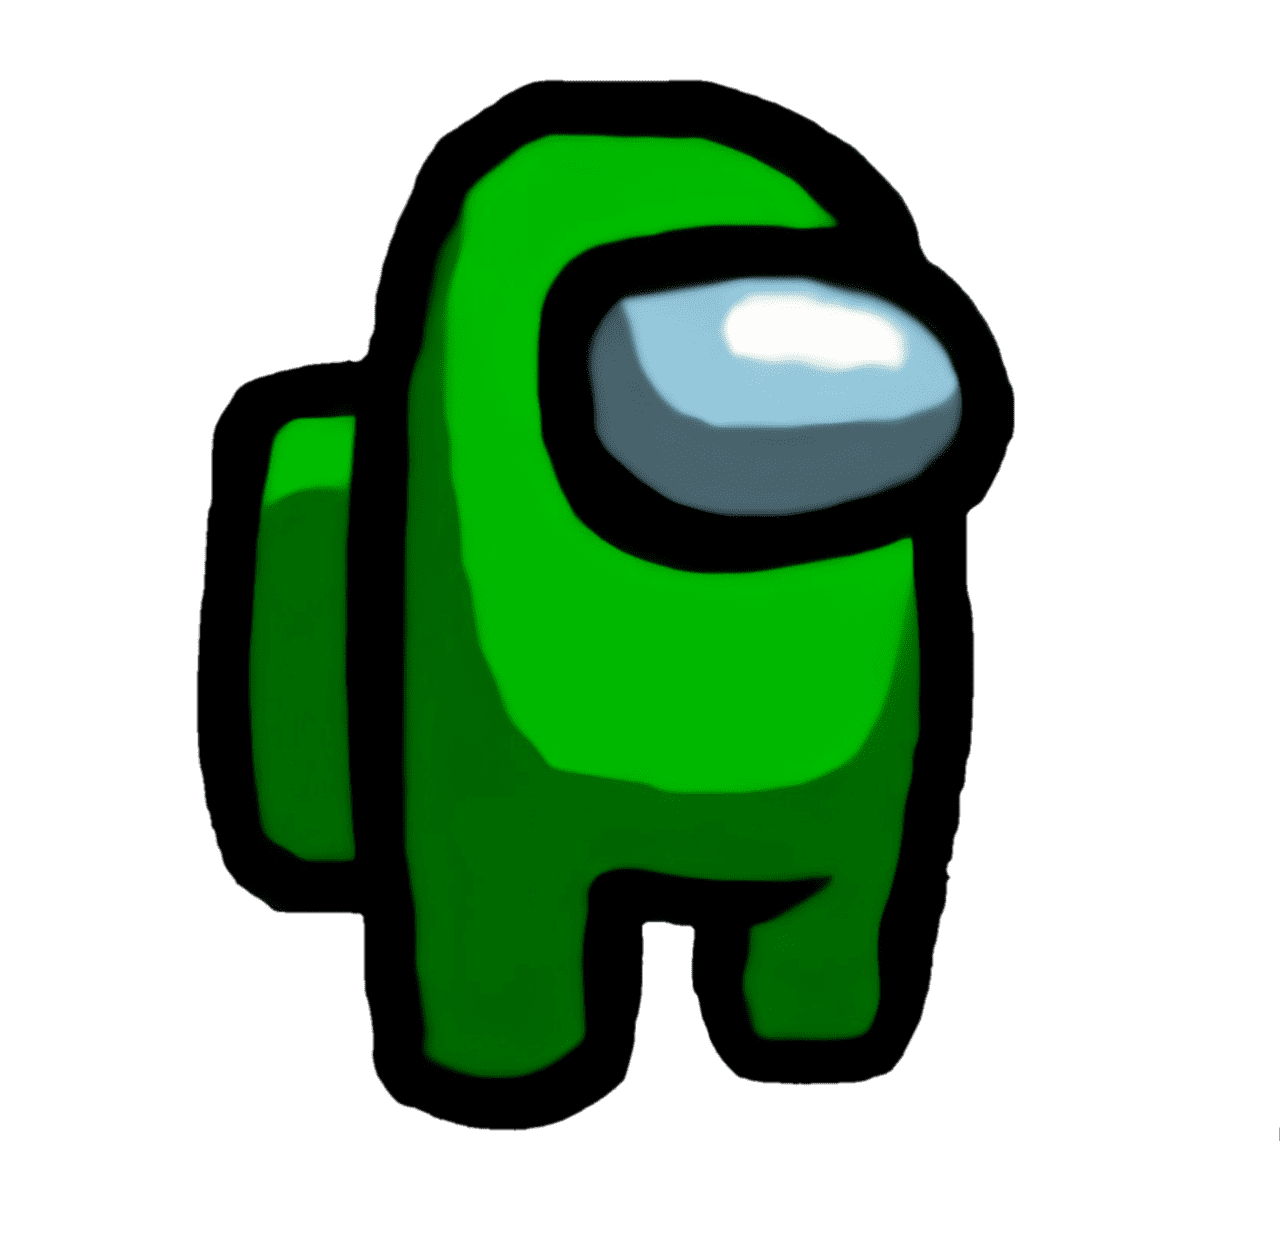
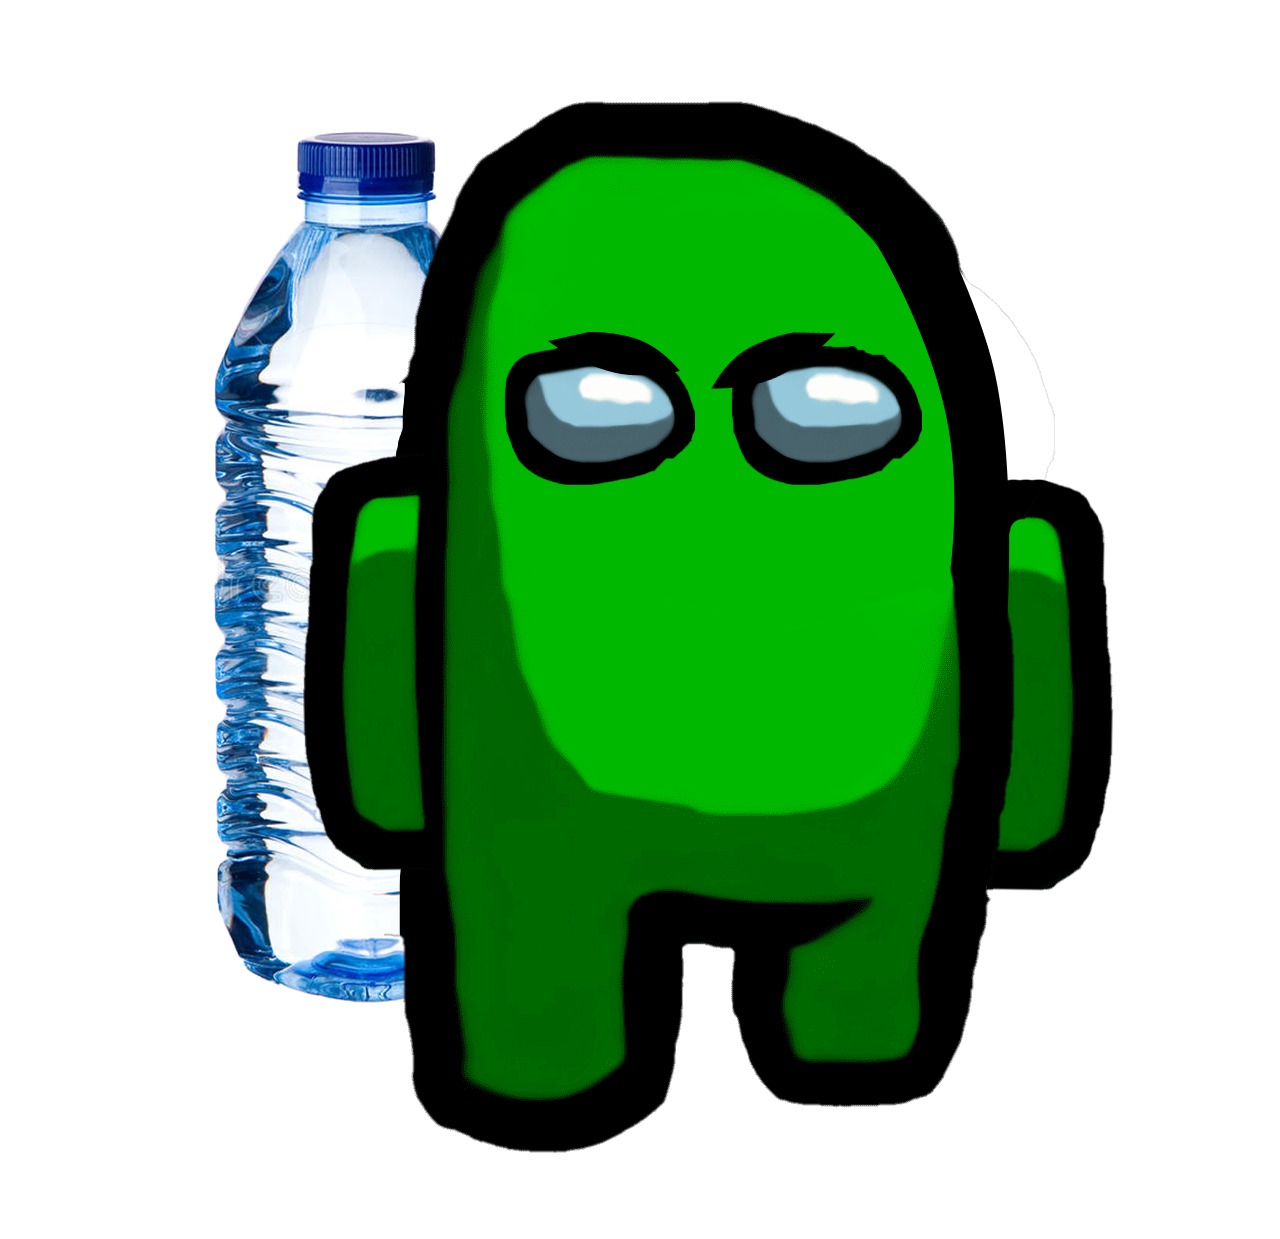
Version 1.0
Have been added new design. Fix couple bugs

diff --git a/amonggame/css/main.css b/amonggame/css/main.css
@@ -5,6 +5,18 @@ body,html{
     padding: 0;
     margin: 0;
     font-family: 'Montserrat', sans-serif;
+    background: url('../img/mainbg.png');
+
+}
+.box{
+  box-shadow: 1px 1px 50px rgba(0,0,0,.3);
+  border-radius: 10px;
+}
+.indicator{
+  background-color: rgb(226, 226, 226);
+  border-radius: 10px;
+  padding: 10px 20px;
+  box-shadow: 1px 1px 50px rgba(0,0,0,.3);
 }
 .field{
     width: 100%;
@@ -12,8 +24,8 @@ body,html{
     /* background: url(https://wonder-day.com/wp-content/uploads/2020/10/wonder-day-among-us-wallpapers-41-1024x576.jpg) no-repeat center center; */
     background-size: cover;
     position: relative;
-    background-color: rgb(195, 219, 255);
-}
+    /* background-size: cover; */
+  }
 .field > *{
     /* z-index: 10; */
 }
@@ -23,7 +35,7 @@ body,html{
     left: 250px;
     width: 100px;
     height: 100px;
-    border: 1px solid rgba(64, 224, 208, 0.589);
+    border: 2px dashed rgba(132, 0, 184, 0.589);
     border-radius: 100px;
     z-index: 99;
     display: flex;
@@ -70,7 +82,7 @@ body,html{
 }
 .indicator-bar{
   margin: 10px 0;
-    width: 200px;
+    width: 160px;
     height: 40px;
     position: relative;
     color: #fff;
@@ -105,9 +117,58 @@ body,html{
   align-items: center;
   border: 1px solid rgba(64, 224, 208, 0.589);
   border-radius: 100px;
-  background-color: rgba(64, 224, 208, 0.2);
+  background-color: rgba(64, 224, 208, 0.4);
   transition: .25s ease border;
   z-index: 2;
+  animation: pulseBG 3s ease infinite;
+}
+.bottle-btn{
+  transform: scale(.8);
+  animation: pulse 3s ease infinite;
+}
+@keyframes pulse{
+  0% {
+    transform: scale(.8);
+  }
+  50%{
+    transform: scale(1);
+  }
+  100%{
+    transform: scale(.8);
+  }
+}
+@keyframes pulseBG{
+  0% {
+    background-color: rgba(64, 224, 208, 0.2);
+  }
+  50%{
+    background-color: rgba(64, 224, 208, 0.4);
+  }
+  100%{
+    background-color: rgba(64, 224, 208, 0.2);
+  }
+}
+@keyframes pulseOpacity{
+  0% {
+    opacity: 0.4;
+  }
+  50%{
+    opacity: 1;
+  }
+  100%{
+    opacity: 0.4;
+  }
+}
+@keyframes pulseBG{
+  0% {
+    background-color: rgba(64, 224, 208, 0.2);
+  }
+  50%{
+    background-color: rgba(64, 224, 208, 0.4);
+  }
+  100%{
+    background-color: rgba(64, 224, 208, 0.2);
+  }
 }
 .bottle:after{
   content: '';
@@ -207,6 +268,8 @@ body,html{
   top: 0;
   right: 0;
   z-index: 1;
+  animation: pulseOpacity 3s ease infinite;
+  opacity: 0.4;
 }
 .enemy-picture{
   width: 60px;
@@ -311,7 +374,14 @@ body,html{
   width: 100%;
 }
 .chest-amount{
-  margin-top: 30px;
+  border-top: 1px solid rgb(185, 185, 185);
+  margin-top: 15px;
+  padding-top: 15px;
+  margin-bottom: 10px;
+  align-items: center;
+}
+.chest-amount-img{
+  margin-left: 10px;
 }
 .carnage-color{
   position: absolute;
@@ -320,4 +390,57 @@ body,html{
   background: rgba(255, 0, 0, 0.314);
   border-radius: 100px;
   z-index: 4;
+}
+
+.alife-enemy{
+  width: 100px;
+  height: 100px;
+  background: url(https://pngimg.com/uploads/spider/spider_PNG20.png);
+  background-size: 70%;
+  background-position: center center;
+  background-repeat: no-repeat;
+  background-color: rgba(255, 136, 0, 0.337); 
+  border: 1px solid rgba(255, 136, 0, 1);
+  border-radius: 100px;
+  position: absolute;
+  top: 0;
+  left: 0;
+  z-index: 4;
+  transition: 5s ease all; 
+}
+.welcome.is-hide{
+  display: none;
+}
+.welcome {
+  position: absolute;
+  top: 0;
+  left: 0;
+  z-index: 999;
+  background: url('../img/mainbg.jpg');
+  width: 100%;
+  height: 100vh;
+  text-align: center;
+}
+.welcome-block{
+  background-color: #fff;
+  box-shadow: 1px 1px 30px rgba(255,255,255,.5);
+  width: 500px;
+  margin: 0 auto;
+  border-radius: 10px;
+  padding: 20px 40px;
+  padding-bottom: 40px;
+  margin-top: 20vh;
+}
+.welcome-btn{
+  background-color: rgb(81, 255, 0);
+  color: #fff;
+  font-weight: bold;
+  border: none;
+  padding: 10px 15px;
+  font-size: 20px;
+  border-radius: 10px;
+  cursor: pointer;
+}
+.welcome-btn:hover {
+  opacity: 0.5;
 }

diff --git a/amonggame/js/game.js b/amonggame/js/game.js
@@ -333,6 +333,8 @@ var move = function move(e){
 
     
     if(bottlePosY == amongPosY  && bottlePosX == amongPosX){
+        // alert('colision');
+
         swallow.play();
         thirst+=30;
         console.log("Ням");
@@ -560,4 +562,3 @@ randomChest();
 //Chest amount 
 var chestAmountNum = document.querySelector('.chest-amount-num');
 chestAmountNum.innerHTML = chestHas + "/" + chestAmount;       
-

diff --git a/amonggame/css/media.css b/amonggame/css/media.css
@@ -4,3 +4,13 @@
         margin-left: auto;
     }
 }
+@media(max-width: 768px){
+    .box{
+        transform: scale(.7);
+        z-index: 999;
+        }
+    .indicator{
+        top: 0px;
+        transform: scale(.7);
+    }
+}
